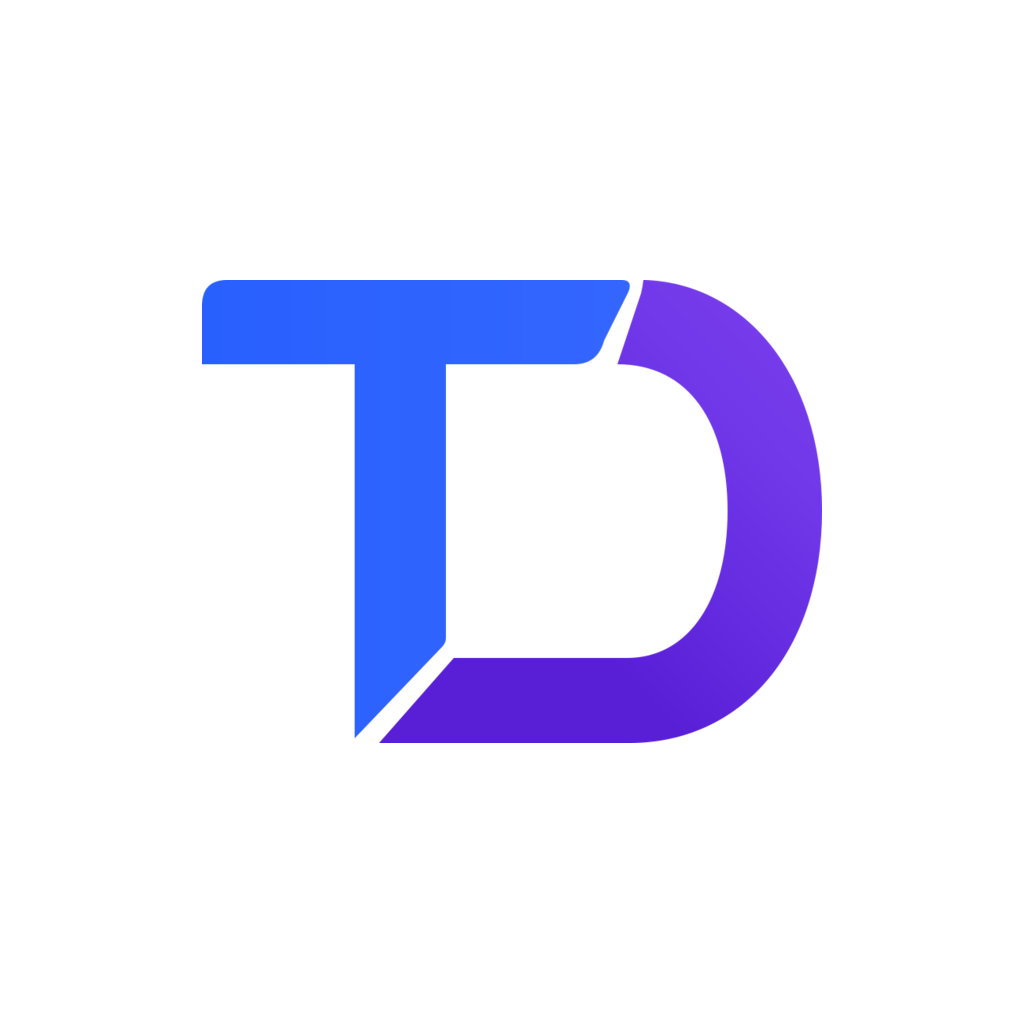
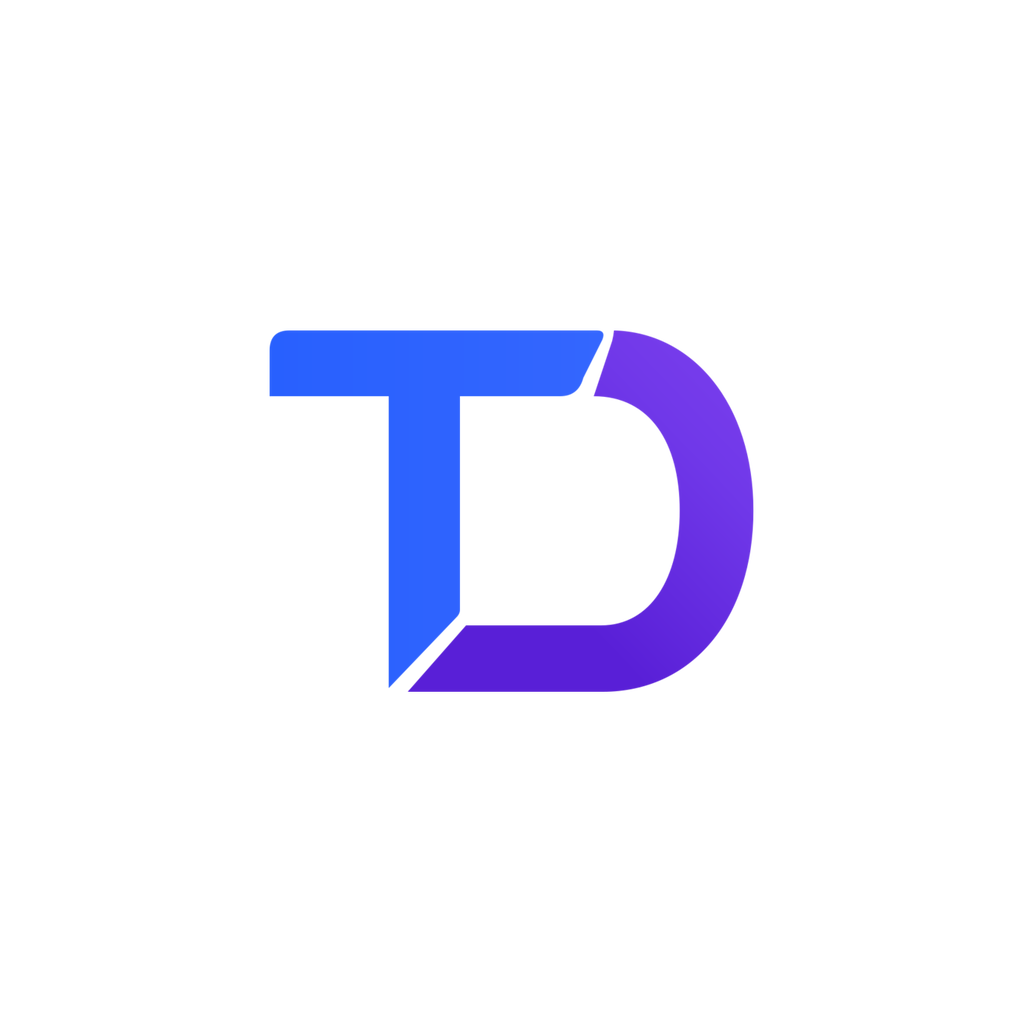
Metti in sicurezza splash e icone TaskDesk su iOS e Android
Replit-Task-Id: c30e7ba9-a987-4dca-8893-32d39df3b26e
Replit-Merge-Attempt: MergeTask:c30e7ba9-a987-4dca-8893-32d39df3b26e:3:dc787a93

Changed region(s): [[0.1875, 0.25, 0.8125, 0.75]]

diff --git a/artifacts/mobile/scripts/check-android-adaptive-icon.test.js b/artifacts/mobile/scripts/check-android-adaptive-icon.test.js
@@ -132,7 +132,7 @@ function unsupportedColorTypePng(colorType) {
 function createProject({
   width = 108,
   height = 108,
-  visiblePixels = [{ x: 30, y: 30 }],
+  visiblePixels = [{ x: 35, y: 35 }],
   foreground = rgbaPng(width, height, visiblePixels),
 } = {}) {
   const projectRoot = fs.mkdtempSync(path.join(os.tmpdir(), "android-adaptive-icon-"));
@@ -168,6 +168,7 @@ describe("Android adaptive icon safe-area check", () => {
     expect(result.foregroundImage).toBe("./assets/images/taskdesk-adaptive-foreground.png");
     expect(result.width).toBe(1024);
     expect(result.requiredMargin).toBe(200);
+    expect(result.maxVisibleRadius).toBeLessThanOrEqual(result.safeRadius);
     expect(result.margins.left).toBeGreaterThanOrEqual(result.requiredMargin);
     expect(result.margins.right).toBeGreaterThanOrEqual(result.requiredMargin);
     expect(result.margins.top).toBeGreaterThanOrEqual(result.requiredMargin);
@@ -179,6 +180,14 @@ describe("Android adaptive icon safe-area check", () => {
 
     expect(() => checkAdaptiveIcon(projectRoot)).toThrow(
       /outside Android's central 66\/108 safe zone.*left 5px/,
+    );
+  });
+
+  it("rejects content that fits the safe-zone bounds but crosses the circular mask", () => {
+    const projectRoot = createProject({ visiblePixels: [{ x: 30, y: 30 }] });
+
+    expect(() => checkAdaptiveIcon(projectRoot)).toThrow(
+      /exceeds Android's central 66\/108 circular safe zone/,
     );
   });
 
@@ -203,14 +212,14 @@ describe("Android adaptive icon safe-area check", () => {
   it("measures indexed PNG margins using palette transparency", () => {
     const png = indexedPng(108, 108, [
       { x: 0, y: 0, index: 0 },
-      { x: 24, y: 30, index: 1 },
+      { x: 35, y: 40, index: 1 },
       { x: 70, y: 75, index: 2 },
       { x: 107, y: 107, index: 0 },
     ]);
     const projectRoot = createProject({ foreground: png });
     const result = checkAdaptiveIcon(projectRoot);
 
-    expect(result.margins).toEqual({ left: 24, top: 30, right: 37, bottom: 32 });
+    expect(result.margins).toEqual({ left: 35, top: 40, right: 37, bottom: 32 });
   });
 
   it("ignores fully transparent pixels in grayscale-alpha and RGBA PNGs", () => {
@@ -249,5 +258,44 @@ describe("Android adaptive icon safe-area check", () => {
     expect(() => parsePng(unsupportedColorTypePng(1), "unsupported.png")).toThrow(
       /unsupported\.png uses an unsupported PNG color type \(1\)/,
     );
+  });
+});
+
+describe("mobile splash and iOS icon assets", () => {
+  it("keeps the splash monogram centered on a white background in both appearances", () => {
+    const projectRoot = path.resolve(scriptDirectory, "..");
+    const config = JSON.parse(fs.readFileSync(path.join(projectRoot, "app.json"), "utf8")).expo;
+    const splash = config.plugins.find(
+      (plugin) => Array.isArray(plugin) && plugin[0] === "expo-splash-screen",
+    )[1];
+    const imagePath = path.join(projectRoot, splash.image);
+    const image = parsePng(fs.readFileSync(imagePath), splash.image);
+
+    expect(splash).toMatchObject({
+      image: "./assets/images/icon.png",
+      imageWidth: 220,
+      resizeMode: "contain",
+      backgroundColor: "#ffffff",
+      dark: {
+        image: "./assets/images/icon.png",
+        backgroundColor: "#ffffff",
+      },
+    });
+    expect(image.width).toBe(1024);
+    expect(image.height).toBe(1024);
+    expect(Math.abs((image.visibleBounds.minX + image.visibleBounds.maxX) / 2 - 511.5)).toBeLessThanOrEqual(5);
+    expect(Math.abs((image.visibleBounds.minY + image.visibleBounds.maxY) / 2 - 511.5)).toBeLessThanOrEqual(5);
+  });
+
+  it("uses a square 1024-pixel iOS app icon source to avoid aspect-ratio distortion", () => {
+    const projectRoot = path.resolve(scriptDirectory, "..");
+    const config = JSON.parse(fs.readFileSync(path.join(projectRoot, "app.json"), "utf8")).expo;
+    const iconPath = path.join(projectRoot, config.icon);
+    const icon = parsePng(fs.readFileSync(iconPath), config.icon);
+
+    expect(config.icon).toBe("./assets/images/taskdesk-app-icon.png");
+    expect(icon.width).toBe(1024);
+    expect(icon.height).toBe(1024);
+    expect(icon.colorType).toBe(2);
   });
 });

diff --git a/artifacts/mobile/scripts/check-android-adaptive-icon.js b/artifacts/mobile/scripts/check-android-adaptive-icon.js
@@ -103,6 +103,9 @@ function parsePng(buffer, filePath) {
 
   let previousRow = Buffer.alloc(stride);
   const visibleBounds = { minX: header.width, minY: header.height, maxX: -1, maxY: -1 };
+  let maxVisibleRadiusSquared = 0;
+  const centerX = (header.width - 1) / 2;
+  const centerY = (header.height - 1) / 2;
   let dataOffset = 0;
 
   for (let y = 0; y < header.height; y += 1) {
@@ -154,13 +157,23 @@ function parsePng(buffer, filePath) {
         visibleBounds.minY = Math.min(visibleBounds.minY, y);
         visibleBounds.maxX = Math.max(visibleBounds.maxX, x);
         visibleBounds.maxY = Math.max(visibleBounds.maxY, y);
+        const distanceX = x - centerX;
+        const distanceY = y - centerY;
+        maxVisibleRadiusSquared = Math.max(
+          maxVisibleRadiusSquared,
+          distanceX * distanceX + distanceY * distanceY,
+        );
       }
     }
 
     previousRow = row;
   }
 
-  return { ...header, visibleBounds };
+  return {
+    ...header,
+    visibleBounds,
+    maxVisibleRadius: Math.sqrt(maxVisibleRadiusSquared),
+  };
 }
 
 function checkAdaptiveIcon(projectRoot) {
@@ -231,12 +244,23 @@ function checkAdaptiveIcon(projectRoot) {
     );
   }
 
+  const safeRadius = (SAFE_ZONE_RATIO * image.width) / 2;
+  if (image.maxVisibleRadius > safeRadius) {
+    fail(
+      `${foregroundImage} visible content exceeds Android's central 66/108 circular safe zone. ` +
+        `Maximum visible radius: ${image.maxVisibleRadius.toFixed(1)}px; ` +
+        `safe radius: ${safeRadius.toFixed(1)}px.`,
+    );
+  }
+
   return {
     foregroundImage,
     width: image.width,
     height: image.height,
     margins,
     requiredMargin,
+    maxVisibleRadius: image.maxVisibleRadius,
+    safeRadius,
   };
 }
 
@@ -248,7 +272,8 @@ if (require.main === module) {
       `[android-adaptive-icon] Safe-area check passed: ${result.foregroundImage} ` +
         `(${result.width}×${result.height}); margins L/T/R/B ` +
         `${result.margins.left}/${result.margins.top}/${result.margins.right}/${result.margins.bottom}px ` +
-        `(minimum ${result.requiredMargin}px).`,
+        `(minimum ${result.requiredMargin}px); maximum radius ` +
+        `${result.maxVisibleRadius.toFixed(1)}px (safe radius ${result.safeRadius.toFixed(1)}px).`,
     );
   } catch (error) {
     console.error(error.message);

diff --git a/artifacts/mobile/ICON_DISPLAY_NOTES.md b/artifacts/mobile/ICON_DISPLAY_NOTES.md
@@ -6,8 +6,8 @@
 background. Its visible mark is centered in the 1024×1024 canvas and has a
 788×588 pixel content bound. The `expo-splash-screen` plugin renders it in
 `contain` mode at 220 dp, so neither iOS nor Android crops the horizontal mark.
-The matching background is white in light appearance and `#161616` in dark
-appearance; the mark's internal negative spaces remain transparent in both.
+The background stays white in both light and dark appearances; the mark's
+internal negative spaces remain transparent.
 
 The plugin generates Android night resources for dark appearance and iOS
 appearance-specific launch-screen assets on iOS 13 and later. Older Android or
@@ -30,6 +30,14 @@ notification banners or the notification center; iOS displays the app's
 system-managed icon. The launcher icons remain separate:
 `taskdesk-app-icon.png` for the standard app icon and
 `taskdesk-adaptive-foreground.png` for Android adaptive launchers.
+
+## Launcher icon masks
+
+The iOS launcher source is a square, opaque 1024×1024 PNG with the mark
+centered inside the rounded-square mask. The Android adaptive foreground is
+transparent and checked against both the central 66/108 safe-zone bounds and
+its circular radius, so the monogram stays intact in circular and rounded
+launcher masks.
 
 ## Verification scope
 
